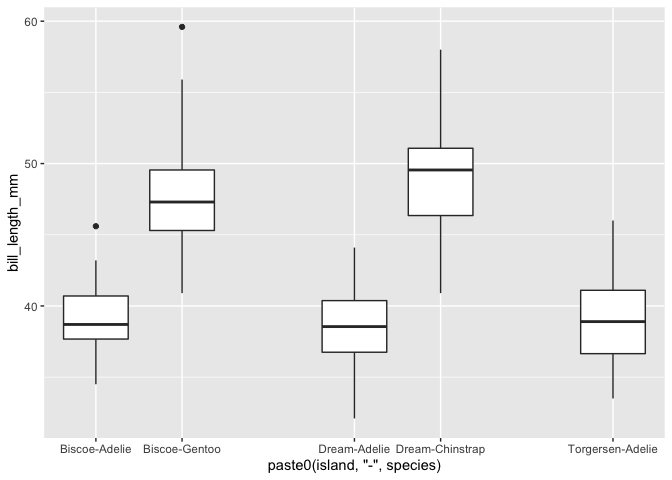
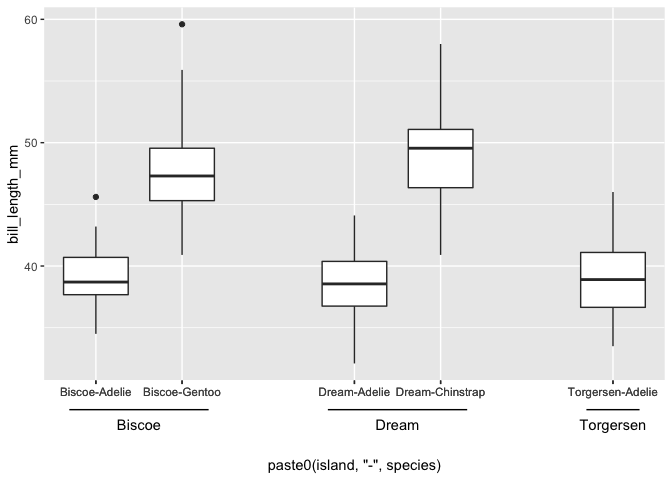
Enable adding grouping lines below axis labels

diff --git a/README.md b/README.md
@@ -33,13 +33,53 @@ ggplot(penguins,
   geom_boxplot() +
   scale_x_grouped_discrete(grouping = function(x){
     sapply(strsplit(x, split = "-"), function(.x) .x[1])
-  }, gap_size = 1)
+  }, gap_size = 1, add_group_label = TRUE)
 #> Warning: Removed 2 rows containing non-finite values (stat_boxplot).
 ```
 
 <img src="man/figures/README-example-1.png" width="100%" />
 
-Note that this is not a polished package. But it seems to get the job
-done, so it’s good enough for me. I am currently not planning to submit
-to CRAN and it should probably be rather added to one of the existing
-ggplot extension packages that provide custom scales.
+Setting `add_group_label = FALSE` suppresses the additional labels
+
+``` r
+ggplot(penguins, 
+       aes(x = paste0(island, "-", species), y = bill_length_mm)) +
+  geom_boxplot() +
+  scale_x_grouped_discrete(grouping = function(x){
+    sapply(strsplit(x, split = "-"), function(.x) .x[1])
+  }, gap_size = 1, add_group_label = FALSE)
+#> Warning: Removed 2 rows containing non-finite values (stat_boxplot).
+```
+
+<img src="man/figures/README-unnamed-chunk-2-1.png" width="100%" />
+
+You can also define the grouping using a regular vector or a formula
+style function
+
+``` r
+ggplot(penguins, aes(x = paste0(island, "-", species), y = bill_length_mm)) +
+  geom_boxplot() +
+  scale_x_grouped_discrete(grouping = c("A", "B", "A", "B", "C"), add_group_label = TRUE)
+#> Warning: Removed 2 rows containing non-finite values (stat_boxplot).
+```
+
+<img src="man/figures/README-unnamed-chunk-3-1.png" width="100%" />
+
+``` r
+ggplot(penguins, aes(x = paste0(island, "-", species), y = bill_length_mm)) +
+  geom_boxplot() +
+  scale_x_grouped_discrete(grouping = ~ stringr::str_split_fixed(.x, "-", n=2)[,2], 
+                           gap_size = 1, add_group_label = TRUE)
+#> Warning: Removed 2 rows containing non-finite values (stat_boxplot).
+```
+
+<img src="man/figures/README-unnamed-chunk-3-2.png" width="100%" />
+
+# Disclaimer
+
+Note that this is not a polished package. For example, the package uses
+internal functions from `ggplot2` and has a hack to extend the range, so
+it might break with any new release of `ggplot2`. However, it seems to
+get the job done, so it’s good enough for me. I am currently not
+planning to submit to CRAN and it should probably be rather added to one
+of the existing ggplot extension packages that provide custom scales.
